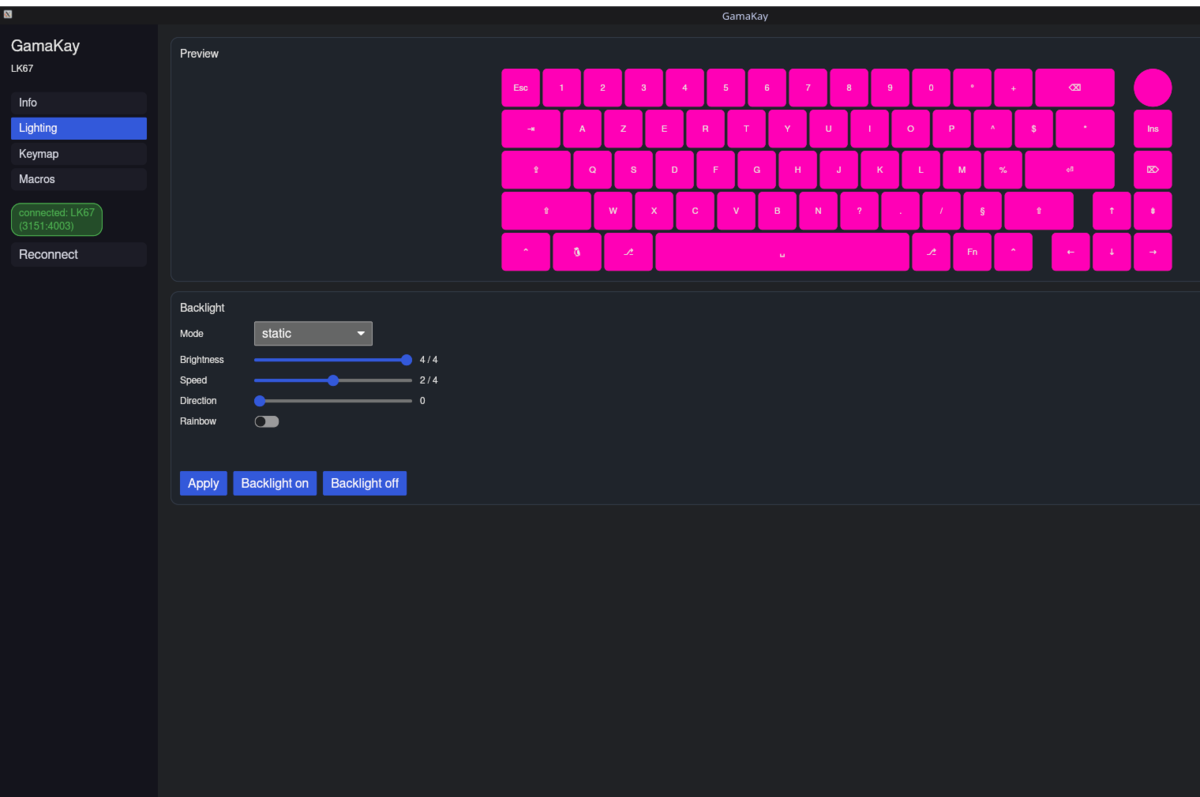
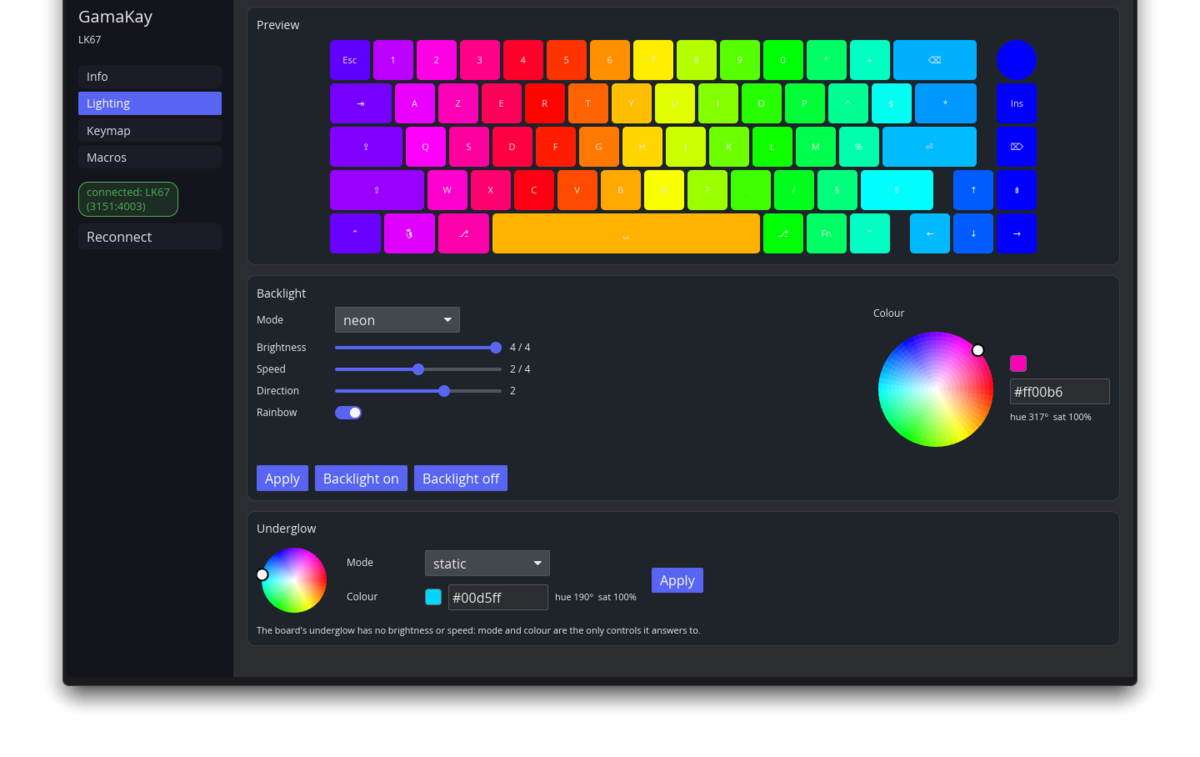
docs(readme): the underglow, and a screenshot of it
The screenshot is the lighting tab as it is now: the backlight's colour wheel
and, below it, the underglow panel with a smaller wheel of its own — taken with
the underglow on a static cyan against the pink backlight, so the two lights
read as independent. It replaces a shot taken before the panel existed, at the
same 1200px width.

The blurb and the feature row mention the underglow, the quick start gains a
`gamakay light edge` line, and the caption names both wheels.

diff --git a/README.md b/README.md
@@ -6,8 +6,9 @@
 [![license: GPL-3.0-or-later](https://img.shields.io/badge/license-GPL--3.0--or--later-blue.svg)](LICENSE)
 
 GamaKay only ships a Windows Electron app for the LK67. This is a native Rust
-replacement: lighting, keymaps, macros and device info, written straight to the
-keyboard's own memory over USB, with a GUI and a scriptable CLI.
+replacement: lighting and the underglow, keymaps, macros and device info,
+written straight to the keyboard's own memory over USB, with a GUI and a
+scriptable CLI.
 
 - **Nothing stays resident.** Every command writes to onboard memory and exits —
   no tray daemon, no background service, no kernel module.
@@ -25,13 +26,13 @@ keyboard's own memory over USB, with a GUI and a scriptable CLI.
 | | |
 |---|---|
 | **Lighting** | Onboard modes with brightness, speed and direction, rainbow, and a colour picker with a live preview of the board. |
-| **Underglow** | The board's side and bottom-mesh LEDs: mode and colour. GamaKay's own software leaves these LED's alone — they are driven from here instead. |
+| **Underglow** | The board's side and bottom-mesh LEDs — the ones GamaKay's own software leaves alone — with their own modes and a colour wheel. |
 | **Keymap** | Remap any key on the base **and Fn** layers, across the board's **8 profiles**. Remap by pressing a key on the keyboard, or pick one from a VIA-style list of ~115 keys — media, modifiers, macros, profiles. |
 | **Macros** | 50 onboard slots with a **recorder**: press Record, type the macro, press Stop, save it to a slot. Delays are captured, so the take keeps your typing rhythm. A CLI step DSL covers scripted cases. |
 | **Device info** | Firmware, active profile, the options the firmware exposes. |
 | **GUI + CLI** | An iced app for interactive work; a `gamakay` command for scripts, profiles and CI. |
 
-![The lighting tab: the board's live preview, its controls, and the colour wheel](docs/images/lighting.png)
+![The lighting tab: the board's live preview, its controls, the backlight colour wheel, and the underglow panel with a wheel of its own](docs/images/lighting.png)
 
 ## Install
 
@@ -64,6 +65,7 @@ inside the archive), or run the tools as root.
 gamakay list                     # every HID node, with the board marked
 gamakay info                     # model, firmware, active profile
 gamakay light set --color ff00aa --brightness 3 --mode wave
+gamakay light edge set --mode breathing --color 00d5ff   # the underglow
 gamakay keymap set --slot 9 --to Esc        # by slot
 gamakay keymap get --fn                     # the Fn layer
 gamakay keymap reset --yes                  # back to the board's defaults
